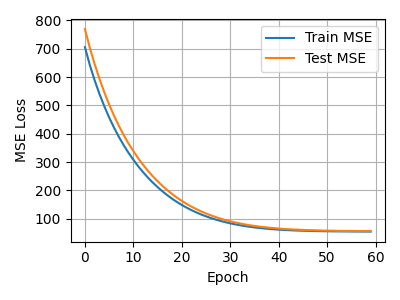
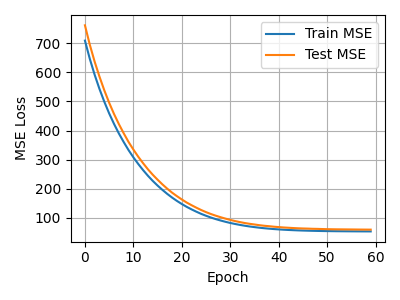
momentum in demo code

diff --git a/mini_lin_reg/optimizers.py b/mini_lin_reg/optimizers.py
@@ -34,7 +34,7 @@ class Momentum(Optimizer):
     def __init__(self, learn_rate: float, beta: float = 0.9):
         super().__init__(learn_rate)
         if not 0.0 <= beta < 1.0:
-            raise ValueError("Beta must be between within [0.0, 1.0]")
+            raise ValueError("Beta must be between [0.0, 1.0]")
         self.beta = beta
         self.m = {}
 
@@ -51,7 +51,7 @@ class Adam(Optimizer):
     def __init__(self, learn_rate: float, beta1: float = 0.9, beta2: float = 0.999):
         super().__init__(learn_rate)
         if not 0.0 <= beta1 < 1.0 or not 0.0 <= beta2 < 1.0 :
-            raise ValueError("Both beta1 and beta2 must be between within [0.0, 1.0).")
+            raise ValueError("Both beta1 and beta2 must be between [0.0, 1.0).")
         if beta1 >= 0.95:
             print(f"Warning: beta1 = {beta1:.3f} may cause strong \"gliding\" behavior. " +
                     "Consider keeping it less than 0.95")

diff --git a/poly_reg/poly_reg_impl.py b/poly_reg/poly_reg_impl.py
@@ -14,7 +14,8 @@ import matplotlib.pyplot as plt
 
 from mini_lin_reg import MiniLinReg
 from mini_lin_reg.loss_functions import MAE, MSE
-from mini_lin_reg.optimizers import SGD, Adam
+from mini_lin_reg.optimizers import SGD, Momentum, Adam
+from mini_lin_reg.regularizers import L1Regularizer, L2Regularizer
 
 from sklearn.preprocessing import PolynomialFeatures
 
@@ -33,7 +34,8 @@ X_train, X_test, y_train, y_test = train_test_split(X, y, test_size=0.2)
 model = MiniLinReg(
     input_size=X.shape[1],
     loss_function=MSE(),
-    optimizer=Adam(learn_rate=0.02),
+    optimizer=Momentum(learn_rate=0.002),
+    regularizer=L2Regularizer(reg_lambda=0.02)
 )
 loss_name = "MSE"
 
@@ -64,5 +66,5 @@ plt.grid(True)
 plt.tight_layout()
 
 # Save the plot to outputs folder
-plt.savefig("outputs/poly_reg_MSE_Adam_Null.png")
+plt.savefig("outputs/poly_reg_MSE_Momentum_L2.png")
 plt.show()
